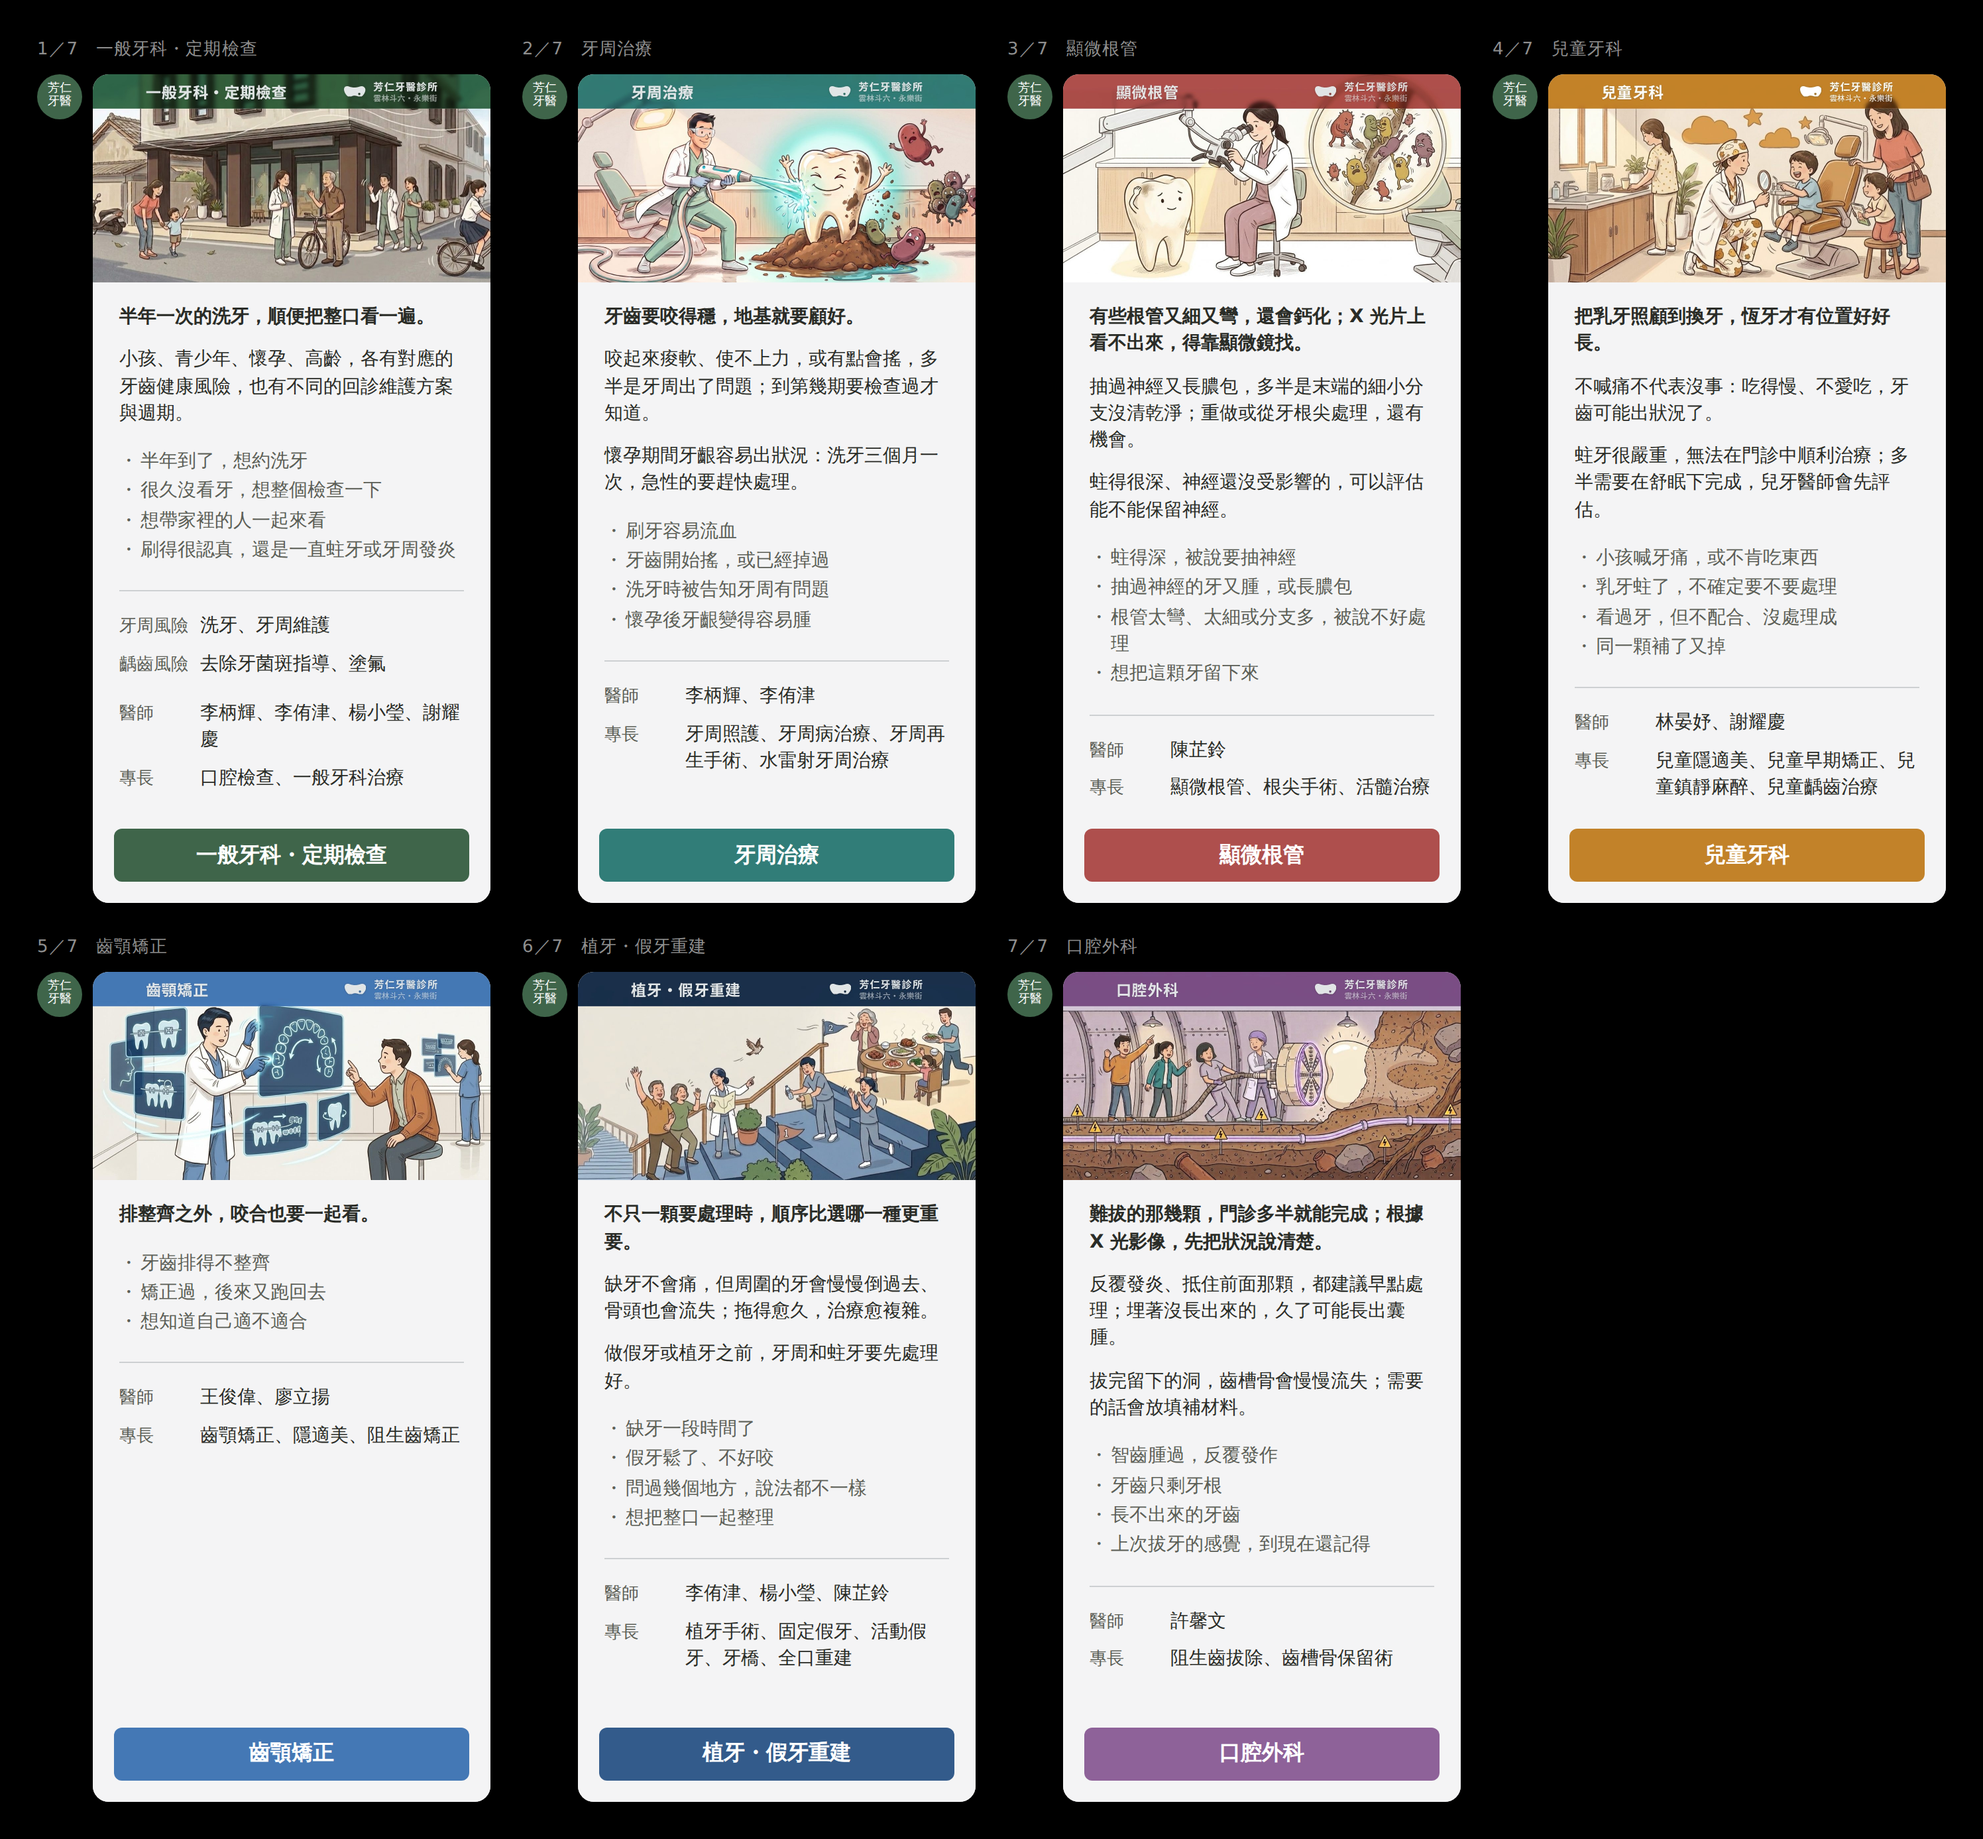
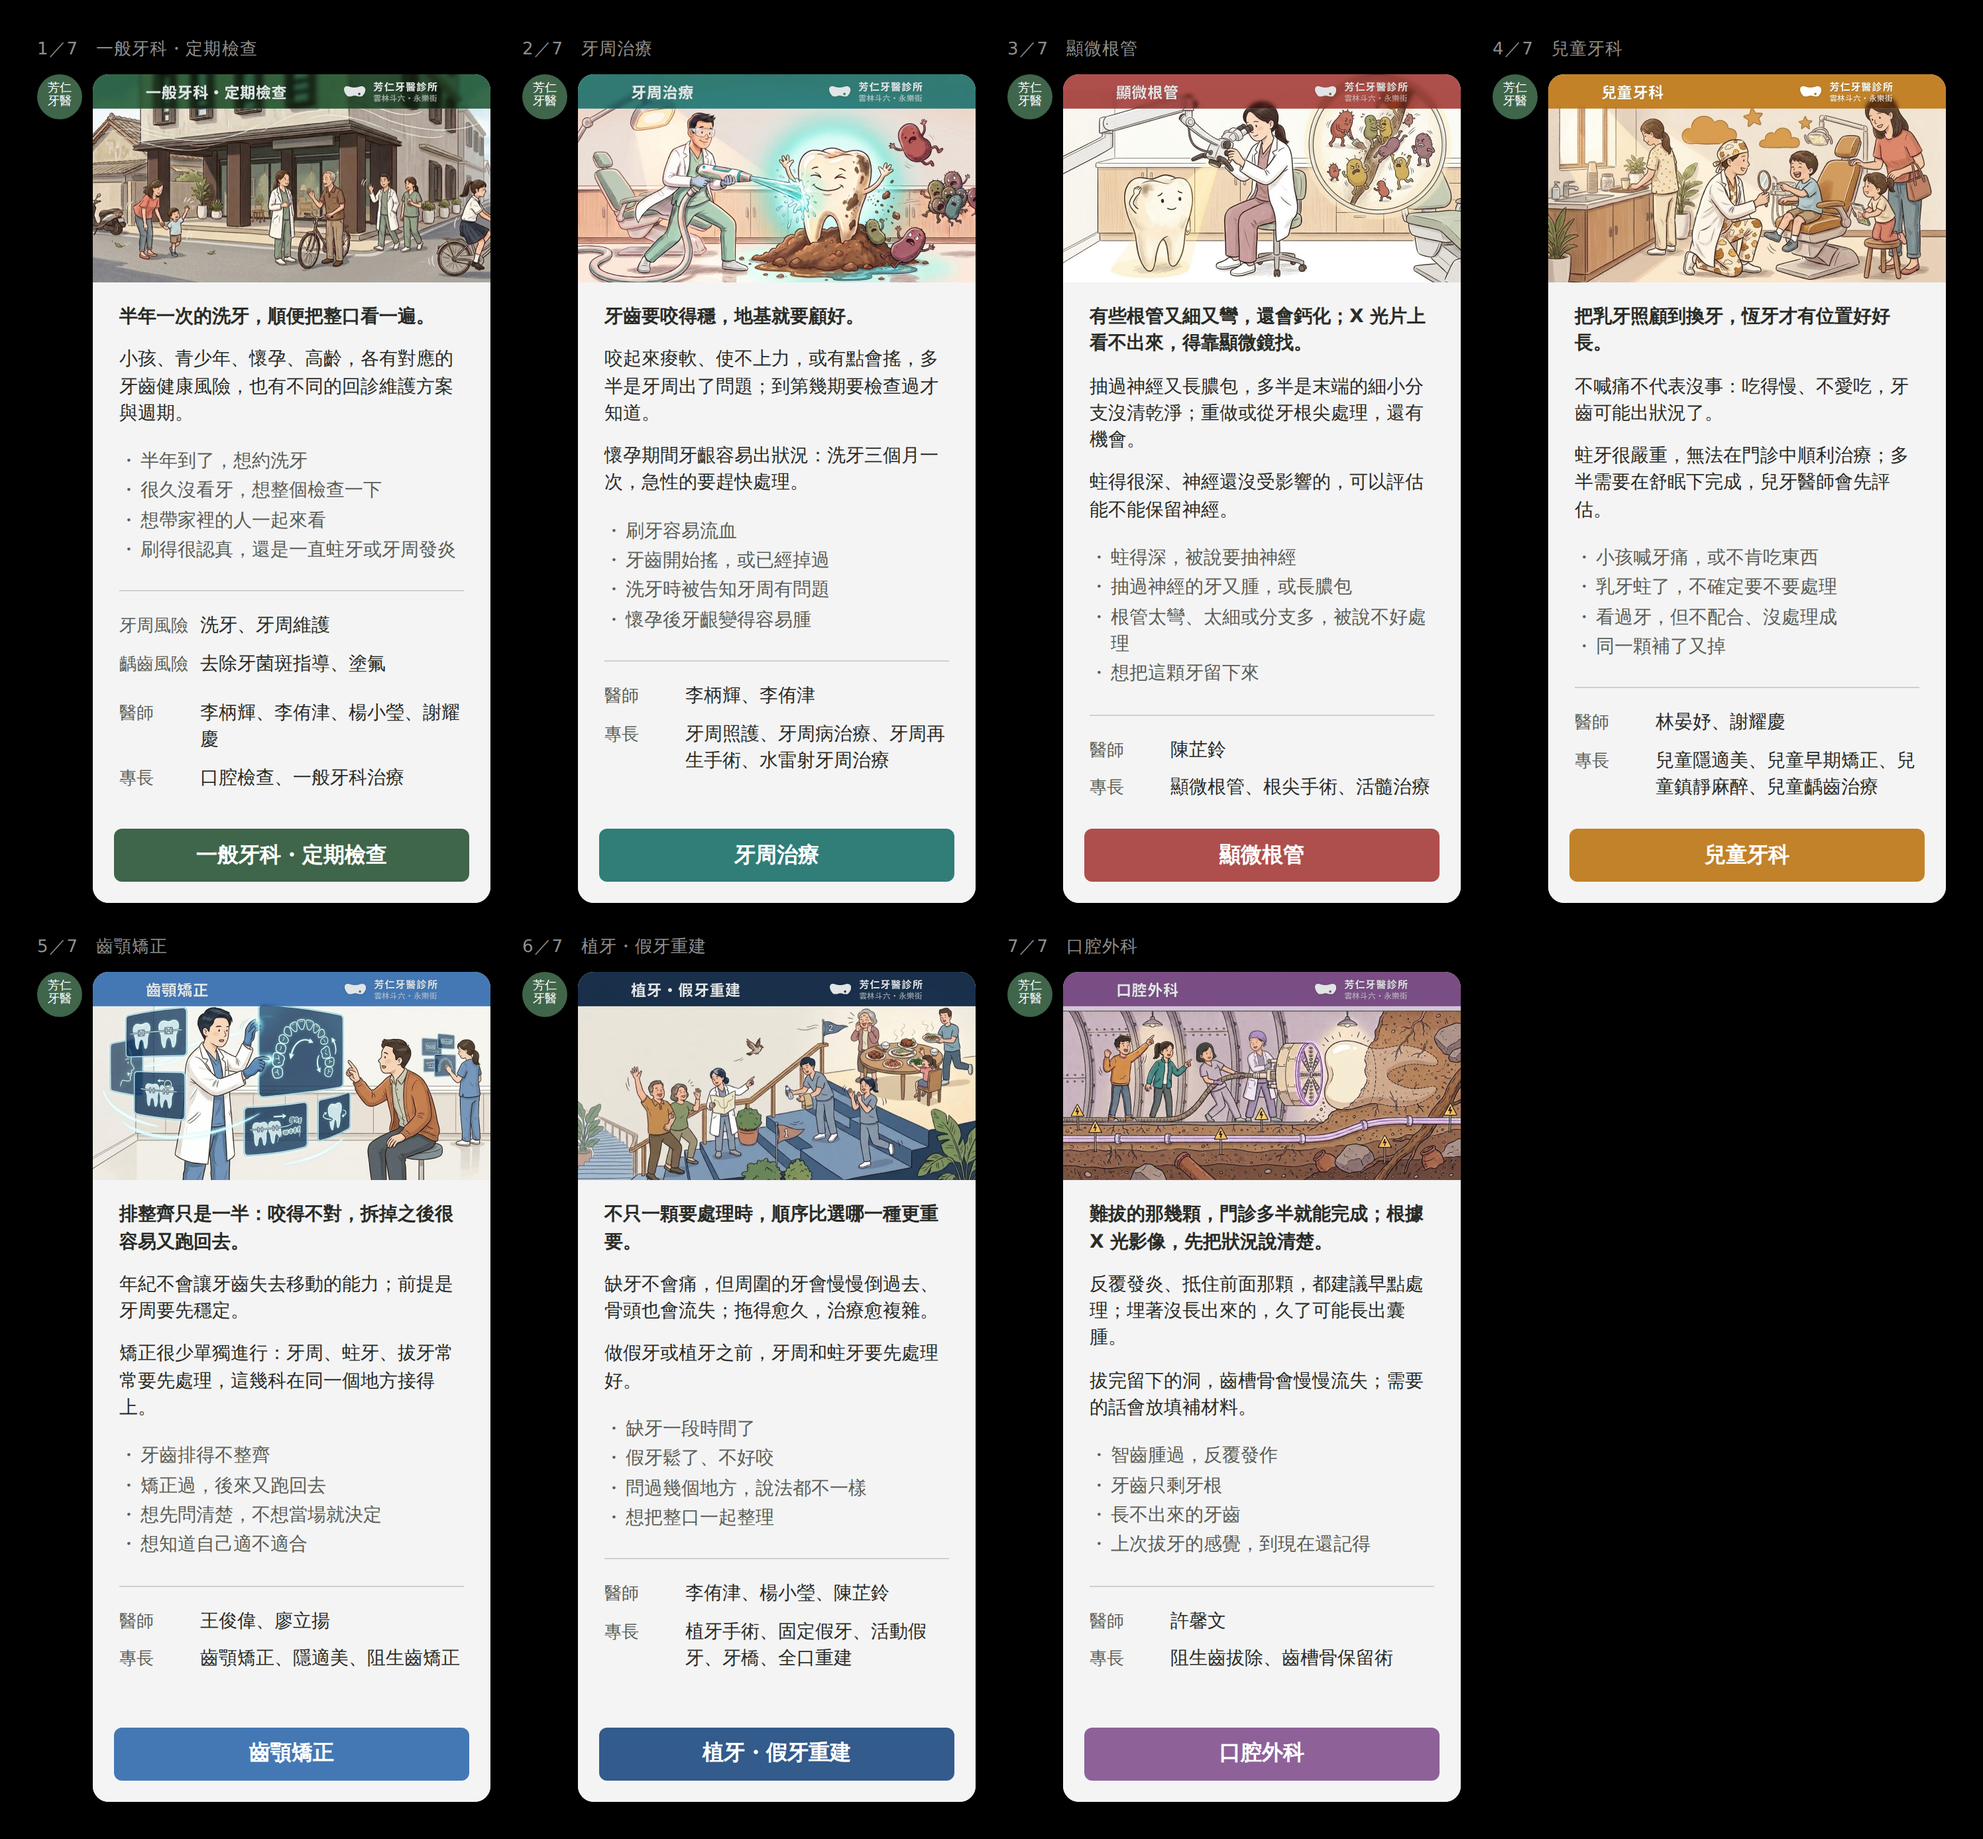
齒顎矯正整張重寫，七科全部定稿
這一科站上刻意一個數字都沒有（療程、回診間隔、自費結構、提供哪些方式，四件都
還沒問到），所以只能寫判斷與順序。

他到了哪一步：和口外相反 —— 口外的人已經決定要拔卡在怕，矯正的人還沒決定。
〈牙齒矯正〉開場就列出他沒問出口的四件，其中「第一次去諮詢會不會當場就被要求
決定」是這一科最大的推力來源。

open ← stance 逐字。note① ← 重點整理逐字「牙齒不會因為年紀而失去移動的能力，
真正的前提是牙周組織健康」——這是他自己解讀不了的事：他以為門檻是年紀，其實是
牙周。沒有寫年齡數字。note② ←「矯正過程需要其他科的時候」，把七張卡串起來，
而且是診所真的做得到的事實。沒有寫「不必自己在幾家診所之間轉述病情」（那個
對照容易被讀成在講別人不好）。

cases③ 新增「想先問清楚，不想當場就決定」——品牌本來就是不推銷，把它寫成他
自己的話，等於當場把顧慮解掉。

沒有寫「隱適美」（品牌名寫進 note 會變推銷，留在專長那一欄）。整張卡一個數字
都沒有。版面沒有再長。

Claude-Session: https://claude.ai/code/session_01QMa36HgXCp2rYEV7ykbWqK

Changed region(s): [[0.0622, 0.651, 0.2176, 0.9301], [0.1865, 0.8991, 0.2176, 0.9301]]

diff --git a/drafts/line-oa/README.md b/drafts/line-oa/README.md
@@ -196,7 +196,7 @@ node drafts/line-oa/flex-preview.mjs topics-carousel.json     # → preview-topi
 | 牙周治療 | 牙齒要咬得穩，地基就要顧好。<br>（另有兩句 `note`：痠軟使不上力多半是牙周／懷孕） | flow［檢查］「地基」＋使用者 08-27 指定的兩個概念 |
 | 顯微根管 | 有些根管又細又彎，還會鈣化 —— X 光片上看不出來，得靠顯微鏡找。<br>（另有兩句 `note`：長膿包／活髓） | flow［清得到］＋〈生物陶瓷〉＋使用者 08-27 給的事實 |
 | 兒童牙科 | 乳牙撐到換牙，恆牙才排得進來。<br>（另有兩句 `note`：不喊痛不代表沒事／舒眠） | flow［留位置］＋groups①reply＋flow［先試過］ |
-| 齒顎矯正 | 排整齊之外，咬合也要一起看。 | stance |
+| 齒顎矯正 | 排整齊只是一半：咬得不對，拆掉之後很容易又跑回去。<br>（另有兩句 `note`：年紀不是門檻／矯正很少單獨進行） | stance 逐字＋〈牙齒矯正〉那一篇 |
 | 植牙・假牙重建 | 不只一顆要處理時，順序比選哪一種更重要。<br>（另有兩句 `note`：缺牙不會痛／先打底） | lead＋flowTitle＋〈缺牙之後〉那一篇 |
 | 口腔外科 | 要不要拔、好不好拔，看的是 X 光片：牙根的形狀、離神經多近。<br>（另有兩句 `note`：怕錯了那一刻／拔完那個洞） | 〈拔智齒之後〉那一篇逐字＋flow［之後］ |
 
@@ -742,3 +742,49 @@ CLAUDE.md 第九節那張表裡**還沒問到**的事，不要自己補。
 **有過不好拔牙經驗的人** —— 那一輪他退回整頁的理由正是「只有講拔智齒」。
 
 ⚠ 版面沒有再長（1387 CSS px）。
+
+### 第十九輪：齒顎矯正整張重寫，七科到齊（2026-08-27）
+
+這一科的難處：**站上刻意一個數字都沒有**（療程多久、回診間隔、自費結構、
+實際提供哪些方式，四件都在 CLAUDE.md 第九節那張表的 `ask` 欄裡還沒問到），
+所以能寫的**只有判斷與順序**，不能寫時間與錢。
+
+**他到了哪一步**（臨床顧問的第一題）：**和口外相反** —— 口外的人已經決定要拔、
+卡在怕；矯正的人**還沒決定**。〈牙齒矯正〉那一篇的開場就列出他沒問出口的四件：
+「我這個年紀還來得及嗎、金屬和隱形到底差在哪、要花多久、**第一次去諮詢會不會
+當場就被要求決定**。」
+
+定案：
+
+> **排整齊只是一半：咬得不對，拆掉之後很容易又跑回去。**
+> 年紀不會讓牙齒失去移動的能力；前提是牙周要先穩定。
+> 矯正很少單獨進行：牙周、蛀牙、拔牙常常要先處理，這幾科在同一個地方接得上。
+> ・牙齒排得不整齊　・矯正過，後來又跑回去　・想先問清楚，不想當場就決定　・想知道自己適不適合
+
+**open** ← stance 逐字（破折號換冒號）。它同時解釋了 cases②「矯正過，後來又跑回去」。
+
+**note①** ←〈牙齒矯正〉重點整理逐字：「牙齒不會因為年紀而失去移動的能力，
+真正的前提是**牙周組織健康**。」
+⚠⚠ 這是這一科「他自己解讀不了的事」：**他以為門檻是年紀，其實是牙周。**
+（同牙周的痠軟、兒牙的不喊痛、植牙的不會痛、口外的埋伏牙。）
+⚠ **沒有寫年齡的數字**，也沒有寫「幾歲都可以」——把條件放在牙周上，不放在年紀上。
+
+**note②** ←〈牙齒矯正〉「矯正過程需要其他科的時候」。
+⚠ 這一句把七張卡串起來（牙周、口外、植牙都在別的卡上），而且是**診所真的做得到
+的事實**，不是形容詞。
+⚠ 沒有寫那一篇的「不必自己在幾家診所之間轉述病情」——那個對照容易被讀成在講
+別人不好（不貶低沒有出場的對手）。
+
+**cases③ 新增「想先問清楚，不想當場就決定」** ——
+⚠ 那正是那一篇開場列的第四件，也是這一科最大的**推力來源**。
+品牌本來就是「不推銷」，把它寫成他自己的話，等於當場把那個顧慮解掉。
+
+⚠ **沒有寫「隱適美」** —— 品牌名寫進 note 會變成推銷，留在 `專長` 那一欄。
+⚠ **整張卡一個數字都沒有。**
+⚠ 版面沒有再長（1387 CSS px）。
+
+---
+
+## ✅ 七科全部定稿（2026-08-27）
+
+一般牙科・定期檢查／牙周治療／顯微根管／兒童牙科／齒顎矯正／植牙・假牙重建／口腔外科。
